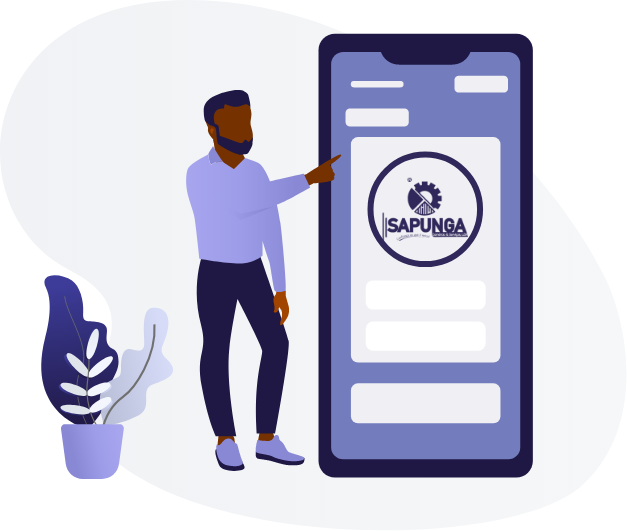
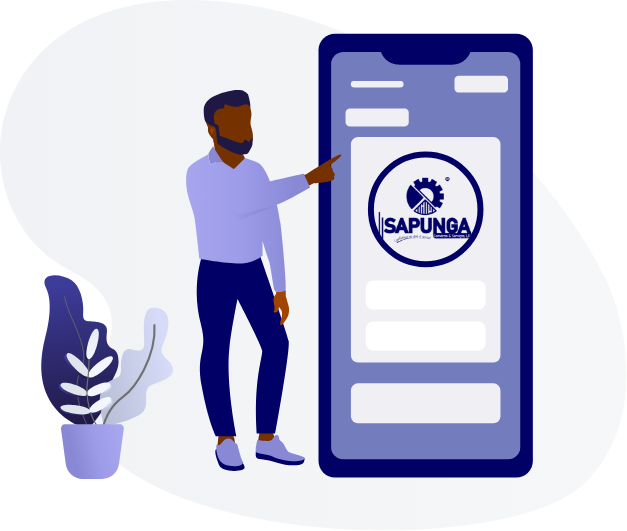
Fazendo alterações na UI

diff --git a/src/pages/Login/style.tsx b/src/pages/Login/style.tsx
@@ -32,7 +32,7 @@ export const Container = styled.main`
       width: 100%;
       max-width: 500px;
       border-radius: 8px;
-      border: 3px solid #7d72b2;
+      border: 3px solid #5959d0;
 
       h3 {
         font-weight: 500;
@@ -129,7 +129,7 @@ export const Container = styled.main`
         }
 
         svg {
-          color: #30285a;
+          color: #000066;
         }
 
         p {
@@ -177,7 +177,7 @@ export const Container = styled.main`
             border-radius: 50%;
             padding: 8px;
             cursor: pointer;
-            background: #30285a;
+            background: #000066;
 
             svg {
               font-size: 1.6em;
@@ -188,7 +188,7 @@ export const Container = styled.main`
               background: #fff;
 
               svg {
-                color: #30285a;
+                color: #000066;
               }
             }
           }

diff --git a/src/Components/Header/style.tsx b/src/Components/Header/style.tsx
@@ -15,10 +15,10 @@ export const Header = styled.header`
     color: #fff;
 
     & > h1 {
-      font-family: "century";
-      font-size: 3.5em;
+      font-family: "Century Gothic";
+      font-size: 4em;
       letter-spacing: 5px;
-      font-weight: bolder;
+      font-weight: 600;
       text-align: center;
       margin-top: 2em;
     }
@@ -38,8 +38,8 @@ export const Header = styled.header`
     height: 90vh;
 
     & > div > h1 {
-      font-size: 4em;
-      margin-top: 2.8em;
+      font-size: 5em;
+      margin-top: 1.8em;
     }
 
     & > div p {

diff --git a/src/index.css b/src/index.css
@@ -13,7 +13,7 @@
 :root {
   --green: #42c713;
   --LightViolet: #7d72b2;
-  --DarkViolet: #30285a;
+  --DarkBlue: #30285a;
   --DarkGray: #0e0e10;
   -webkit-text-size-adjust: 100%;
 }
